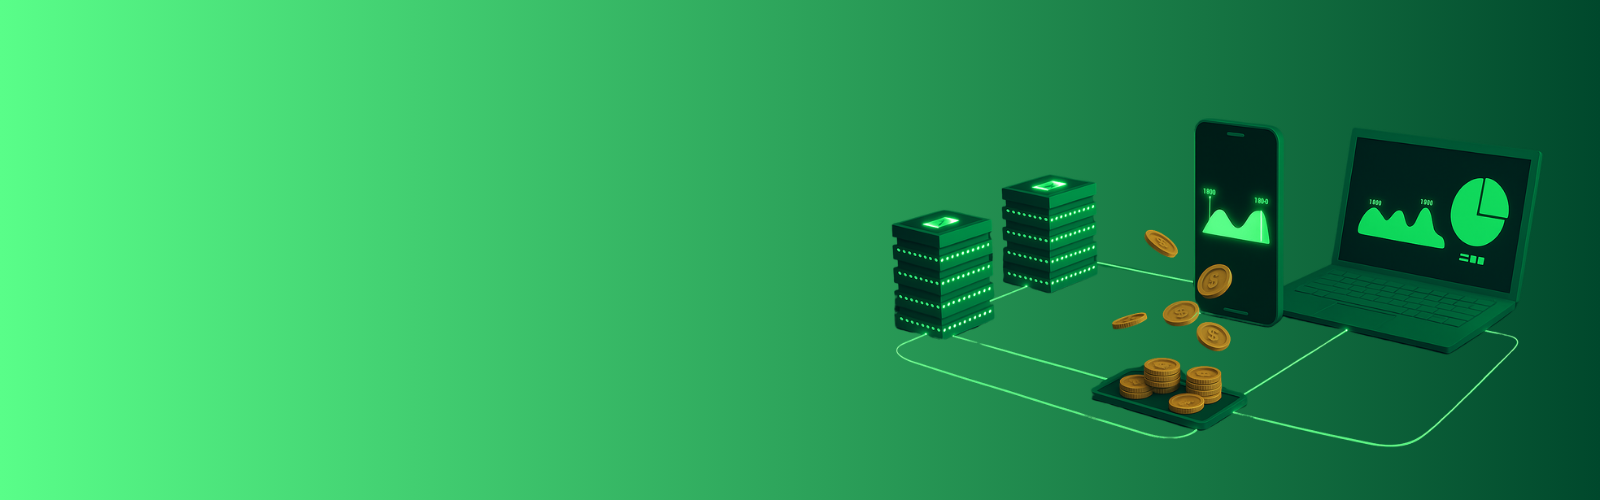
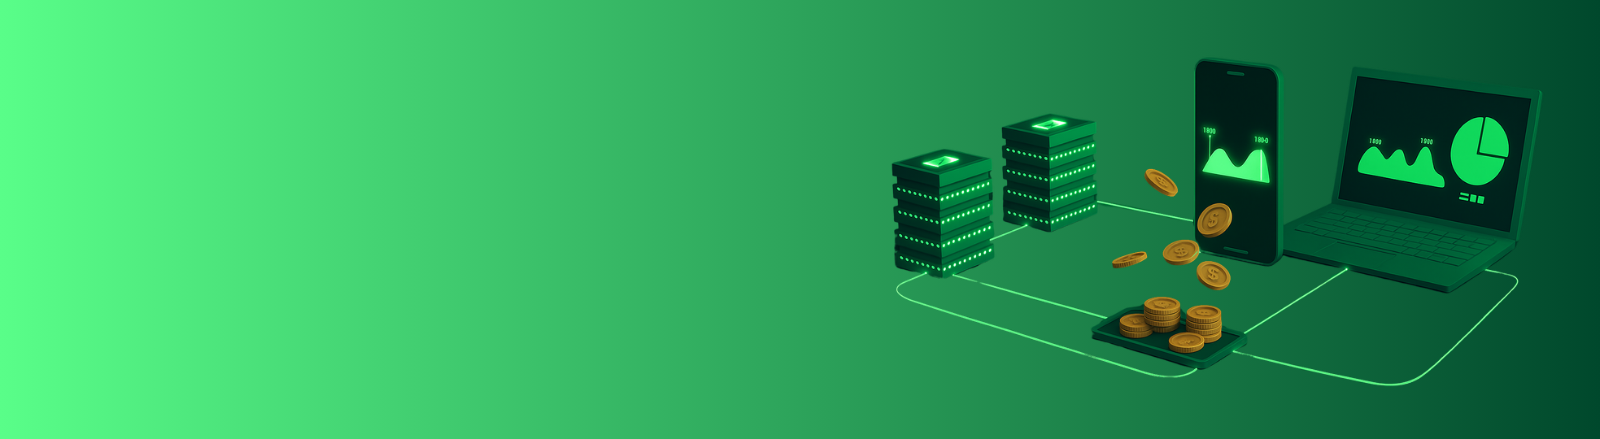
first commit

Changed region(s): [[0.5312, 0.1185, 0.9688, 0.918], [0.9062, 0.7107, 0.9375, 0.7995], [0.9375, 0.6515, 0.9688, 0.6811]]

diff --git a/src/screens/StoryPage/NewsPage/NewsPage.tsx b/src/screens/StoryPage/NewsPage/NewsPage.tsx
@@ -7,17 +7,21 @@ import { Button } from "../../../components/ui/button";
 const articlesData = [
   {
     id: 1,
-    title: "Chargeup teams up for E3W financing",   
+    title: "Chargeup forms new partnerships for EV financing",   
     date: "June 5, 2023",
-    imageUrl: "/news1.jpg",  
-    description: "Chargeup partners with Credit Fair and Ascend Capital to provide ₹100 crore in E3W financing for underserved drivers...",
-      link : "https: auto.economictimes.indiatimes.com/news/commercial-vehicle/chargeup-collaborates-with-credit-fair-and-ascend-capital-for-e3w-financing-solutions/107880159"
+    imageUrl: "/news5.png",  
+    imageWidth: "20px",
+    imageHeight: "20px", 
+    description: "Chargeup, being an asset management and financial services platform, is creating impact by enabling quick financing...",
+      link : "https://www.financialexpress.com/auto/commercial-vehicles/chargeup-forms-new-partnerships-for-ev-financing/3860046/"
   },
   {
     id: 2,
     title: "Electric vehicles: Only commitment, and no real deal",
     date: "June 5, 2023",
     imageUrl: "/news2.jpg",
+    imageWidth: "280px",
+    imageHeight: "220px",
     description: "India's budget backs EVs but lacks clear plans or new subsidies...",
     link : "https: www.forbesindia.com/amp/article/news/electric-vehicles-only-commitment-and-no-real-deal/91199/1"
 },
@@ -26,6 +30,8 @@ const articlesData = [
     title: "Chargeup to onboard 25,000 drivers in 17 cities by 2025",
     date: "June 5, 2023",
     imageUrl: "/news3.jpg",
+    imageWidth: "280px",
+    imageHeight: "240px",
     description: "Chargeup to onboard 25,000 drivers and expand battery stations across 17 cities...",
     link : "https: energy.economictimes.indiatimes.com/news/power/chargeup-to-onboard-25000-drivers-across-17-indian-cities-by-2025/109556468"
   },
@@ -34,6 +40,8 @@ const articlesData = [
     title: "Chargeup finalist at Aegis Graham Bell Awards",
     date: "June 5, 2023",
     imageUrl: "/news4.jpg",
+    imageWidth: "280px",
+    imageHeight: "200px",
     description: "Chargeup honored as finalist in 14th Aegis Graham Bell Awards for innovation...",
     link : "https: www.linkedin.com/posts/aegis-graham-bell-award_congratulations-to-chargeup-finalist-under-activity-7298635481326465025-1xTl?utm_source=social_share_send&utm_medium=member_desktop_web&rcm=ACoAAA2bHUoBindJf1EnJhHgLL-nZm964iDkCvQ"
   },
@@ -44,25 +52,31 @@ const articlesData = [
     description:
       "Chargeup partners with Credit Fair and Ascend Capital to provide ₹100 crore in E3W financing for underserved drivers.",
     imageUrl: "/news4.jpg",
+    imageWidth: "280px",
+    imageHeight: "180px",
     link: "https://example.com/news/5"
   },
   {
     id: 6,
     date: "23 Jan, 2025",
-    title: "Chargeup teams up for E3W financing",
+    title: "Chargeup teams up with Mega Corp, Shivakari Finance to unlock Rs 50 Cr in EV financing",
     description:
-      "Chargeup partners with Credit Fair and Ascend Capital to provide ₹100 crore in E3W financing for underserved drivers.",
-    imageUrl: "/api/placeholder/326/360",
-    link: "https://example.com/news/6"
+      "The company aims to disburse the credit line to support the deployment of 4,000 commercial EVs over their next 12 months in the country.",
+    imageUrl: "/news6.png",
+    imageWidth: "280px",
+    imageHeight: "260px",
+    link: "https://yourstory.com/2025/05/chargeup-partners-mega-corp-shivakari-finance-50-crore-ev-financing"
   },
   {
     id: 7,
     date: "23 Jan, 2025",
-    title: "Chargeup teams up for E3W financing",
+    title: "Chargeup Joins Forces with Mega Corporation and Shivakari Finance to Unlock INR 50 Cr in EV Financing",
     description:
-      "Chargeup partners with Credit Fair and Ascend Capital to provide ₹100 crore in E3W financing for underserved drivers.",
-    imageUrl: "/api/placeholder/326/360",
-    link: "https://example.com/news/7"
+      "The collaboration aims to unlock a credit line of INR 50 crore and deploy 4,000 commercial EVs over the next year, primarily benefitting underserved last-mile drivers.",
+    imageUrl: "/news5.png",
+    imageWidth: "280px",
+    imageHeight: "200px",
+    link: "https://www.entrepreneur.com/en-in/news-and-trends/chargeup-joins-forces-with-mega-corporation-and-shivakari/492329"
   },
   {
     id: 8,
@@ -71,6 +85,8 @@ const articlesData = [
     description:
       "Chargeup partners with Credit Fair and Ascend Capital to provide ₹100 crore in E3W financing for underserved drivers.",
     imageUrl: "/api/placeholder/326/360",
+    imageWidth: "280px",
+    imageHeight: "220px",
     link: "https://example.com/news/8"
   }
 ];
@@ -106,16 +122,13 @@ export default function NewsPage() {
       <div className="grid grid-cols-1 md:grid-cols-2 gap-6 md:gap-8 lg:gap-10 w-full mb-12">
         {currentArticles.map((article) => (
           <div key={article.id} className="flex flex-col md:flex-row items-start md:items-center gap-4 md:gap-6 lg:gap-10">
-            <Card className="w-full md:w-[181px] lg:w-[280px]  h-[200px] md:h-[240px] lg:h-[300px]  bg-[#333333] rounded-3xl  lg:rounded-3xl xl:rounded-[26px] p-4 md:p-5 lg:p-6 xl:p-[26px] flex flex-col justify-end overflow-hidden relative">
-              <CardContent className="p-0">
+            <Card className="w-full md:w-[181px] lg:w-[280px] h-[200px] md:h-[240px] lg:h-[300px] bg-[#333333] rounded-3xl lg:rounded-3xl xl:rounded-[26px] p-0 flex flex-col justify-end overflow-hidden relative">
+              <CardContent className="p-0 w-full h-full">
                 <img 
                   src={article.imageUrl} 
                   alt={article.title}
-                  className="absolute inset-0 w-full h-full object-cover opacity-90"
+                  className="w-full h-full object-cover"
                 />
-                {/* <Badge className="relative z-10 bg-white text-[#1b4748] font-normal rounded-[5px] px-3 py-2">
-                  {article.date}
-                </Badge> */}
               </CardContent>
             </Card>
             
@@ -130,7 +143,7 @@ export default function NewsPage() {
                 </p>
               </div>
               
-              <a href={article.link} className="mt-2 md:mb-4 flex items-center gap-2 md:gap-4 lg:gap-[21px] no-underline">
+              <a href={article.link} className="mt-2 md:mb-4 flex items-center gap-2 md:gap-4 lg:gap-[21px] no-underline " target = "_blank" rel="noopener noreferrer">
 
                 <span className=" font-semibold text-[#07584D] text-base md:text-lg lg:text-xl leading-6 whitespace-nowrap ">
                   Read Now

diff --git a/src/screens/Homepage/sections/HeroSections/HeroSections.tsx b/src/screens/Homepage/sections/HeroSections/HeroSections.tsx
@@ -22,16 +22,16 @@ export default function HeroSection() {
   }, []);
 
   return (
-    <section className="min-h-screen relative overflow-hidden">
+    <section className="h-[750px] relative overflow-hidden">
       {/* Background Image with Overlay */}
       <div 
-        className="absolute inset-0 bg-cover bg-center bg-no-repeat"
+        className="absolute inset-0 bg-cover bg-left bg-no-repeat object-fill w-[100%] h-[100%] z-0"
         style={{
-          backgroundImage: `url('/homeImage.png')`,
+          backgroundImage: `url('/hero.png')`,
         }}
       />
       {/* Dark overlay for better text readability */}
-      <div className="absolute inset-0 bg-gradient-to-br from-black/70 via-black/60 to-black/80" />
+      <div className="absolute inset-0 " />
 
       <div className="container mx-auto px-6 lg:px-8 py-20 relative z-10">
         <div className="grid lg:grid-cols-2 gap-16 items-center min-h-[85vh]">
@@ -39,27 +39,27 @@ export default function HeroSection() {
           <div className={`space-y-8 transition-all duration-1000 ${isVisible ? 'opacity-100 translate-x-0' : 'opacity-0 -translate-x-10'}`}>
             <div className="space-y-6">
               <div className="inline-flex items-center px-4 py-2 bg-gradient-to-r from-[#0F9547]/20 to-[#3B82F6]/20 border border-[#0F9547]/30 rounded-full backdrop-blur-sm">
-                <div className="w-2 h-2 bg-[#0F9547] rounded-full animate-pulse mr-3"></div>
-                <span className="text-sm md:text-base font-medium text-[#0F9547]">A single stop solution</span>
+                <div className="w-2 h-2 bg-[#fff] rounded-full animate-pulse mr-3"></div>
+                <span className="text-sm md:text-base font-medium text-[#fff]">A single stop solution</span>
               </div>
               
               <h1 className="text-5xl md:text-6xl lg:text-7xl font-bold text-white leading-tight">
                 <span className="bg-gradient-to-r from-white to-gray-300 bg-clip-text text-transparent">
-                  Driver First  
+                  India's first EV Driver Platform  
                 </span>
-                <br />
+                {/* <br />
                 <span className="bg-gradient-to-r from-[#0C7D49] via-[#07584D] to-[#033F4F] bg-clip-text text-transparent">
                   Fi Ne Tech
                 </span>
                 <br />
                 <span className="bg-gradient-to-r from-white to-gray-300 bg-clip-text text-transparent">
                   Platform
-                </span>
+                </span> */}
               </h1>
               
-              <p className="text-xl md:text-2xl text-gray-400 leading-relaxed max-w-2xl">
+              <p className="text-xl md:text-2xl text-gray-50 leading-relaxed max-w-2xl">
                 Offering     
-                <span className="text-[#0F9547] font-semibold"> Financial services and Asset management </span>, 
+                <span className="text-[#fff] font-semibold"> Financial services and Asset management </span>, 
                 Integrated with NBFCs, OEMs & dealers
               </p>
             </div>

diff --git a/src/screens/ChargetechPage/sections/SolutionHome/SolutionHome.tsx b/src/screens/ChargetechPage/sections/SolutionHome/SolutionHome.tsx
@@ -7,29 +7,30 @@ export const SolutionHome = (): JSX.Element => {
   const [isModalOpen, setIsModalOpen] = useState(false);
   
   return (
-    <section className="flex flex-col items-start justify-center p-2 lg:px-4">
+    <section className="flex flex-col items-start justify-center p-1 md:p-6 lg:px-4 ">
       <Card className="w-full rounded-lg md:rounded-xl lg:rounded-2xl border-none overflow-hidden relative bg-cover bg-center bg-no-repeat"
             style={{
-              backgroundImage: `linear-gradient(rgba(0, 0, 0, 0.6), rgba(0, 0, 0, 0.6)), url('/sol_home.png')`
+              backgroundImage: `linear-gradient(rgba(0, 0, 0, 0.2), rgba(0.2, 0, 0, 0.2)), url('/sol_home.png')`
             }}>
         
         <CardContent className="flex flex-col items-start p-10 sm:p-8 md:p-12 lg:py-16 lg:px-24">
           <div className="flex flex-col items-start gap-6 md:gap-8 w-full">
             <div className="flex flex-col items-start gap-1">
               <p className="md:w-2/3 text-sm lg:px-[24px] sm:text-base md:text-lg font-normal text-[#fcfcfc] leading-relaxed font-['Plus_Jakarta_Sans',Helvetica]">
-                Enabling easy EV ownership via
+                A single stop solution
+
               </p>
-              <h1 className="md:w-full text-3xl lg:px-[24px] md:text-4xl xl:text-[44px] font-semibold text-white tracking-tight font-['Plus_Jakarta_Sans',Helvetica] mb-4">
+              {/* <h1 className="md:w-full text-3xl lg:px-[24px] md:text-4xl xl:text-[44px] font-semibold text-white tracking-tight font-['Plus_Jakarta_Sans',Helvetica] mb-4">
                 Fi Ne Tech Platform 
-              </h1>
-              <p className="md:w-2/3 text-sm lg:px-[24px] sm:text-base md:text-lg font-normal text-[#ffffff] leading-relaxed mt-3 md:mt-6">
-                Offering financial services and asset management integrated with NBFCs, OEMs and dealers, to offer a single stop solution.
+              </h1> */}
+              <p className="w-2/3 md:w-2/3 text-sm lg:px-[24px] sm:text-base md:text-2xl font-normal text-[#ffffff] leading-relaxed mt-3 md:mt-6">
+                Offering Financial services and Asset management Integrated with NBFCs, OEMs & dealers.
               </p>
             </div>
             <div className="flex items-start pt-2 md:pt-4 lg:px-[24px]">
               <Button 
                 onClick={() => setIsModalOpen(true)}
-                className="bg-[#07584D] px-4 py-2 text-[#ffffff] border border-[#fff] rounded-md md:rounded-lg text-base md:text-base lg:text-lg font-semibold font-['Plus_Jakarta_Sans',Helvetica] shadow-sm hover:bg-[#033F4F]/90"
+                className="bg-[#07584D] px-4 py-2 text-[#ffffff]  rounded-md md:rounded-lg text-base md:text-base lg:text-lg font-semibold font-['Plus_Jakarta_Sans',Helvetica] shadow-sm hover:bg-[#033F4F]/90"
               >
                 Partner with us
               </Button>

diff --git a/src/screens/PeoplePage/Career/Career.tsx b/src/screens/PeoplePage/Career/Career.tsx
@@ -6,9 +6,9 @@ const DepartmentItem = ({ title, isActive, onClick, jobRoles, selectedRole }) =>
     <div 
       onClick={onClick}
       className={`
-        w-full p-3 rounded-full cursor-pointer transition-all duration-300 
+        w-full p-3 pl-5 rounded-full cursor-pointer transition-all duration-300 
         ${isActive 
-          ? 'bg-orange-500 text-white' 
+          ? 'bg-[#07584D] text-white' 
           : 'bg-white border border-gray-300 text-gray-800 hover:bg-gray-100'
         }
       `}
@@ -27,7 +27,7 @@ const DepartmentItem = ({ title, isActive, onClick, jobRoles, selectedRole }) =>
             p-3 ml-2 border-l-2 cursor-pointer rounded-r-lg mb-3 
             transition-all duration-200
             ${selectedRole === role.id 
-              ? 'border-orange-500 bg-orange-50 text-gray-800' 
+              ? 'border-[#07584D] bg-[#07584D]  text-gray-800 bg-gray-100' 
               : 'border-gray-200 hover:bg-gray-50'}
           `}
           onClick={() => role.onClick(role.id)}
@@ -46,7 +46,7 @@ const JobDetails = ({ title, location, requirements, responsibilities, skills, g
         <h2 className="text-2xl font-bold text-gray-800 mb-2">{title}</h2>
         <div className="text-gray-600">{location}</div>
       </div>
-      <button className="mt-4 md:mt-0 bg-[#0A704A] hover:bg-yellow-500 text-white font-medium py-2 px-6 rounded text-[18px]">
+      <button className="mt-4 md:mt-0 bg-[#07584D] hover:bg-[#023350] text-white font-medium py-2 px-6 rounded text-[18px]">
         Apply
       </button>
     </div>

diff --git a/src/screens/Homepage/sections/Video/Video.tsx b/src/screens/Homepage/sections/Video/Video.tsx
@@ -30,9 +30,16 @@
       const videoId = extractYouTubeId(url);
       return videoId ? `https://www.youtube.com/embed/${videoId}?autoplay=1&rel=0` : null;
     };
+    
 
     // Video data array
     const videos = [
+      {
+        id: 6,
+        title: "From financing e-rickshaw to i-rickshaws | chargeup x Shivakari",
+        description: "The inspiring story of Pratibha Das",
+        url: "https://youtu.be/a2QQYXzs2jQ"
+      },
       {
         id: 1,
         title: "How E-Rickshaw Drivers Drove a Greener Tomorrow",
@@ -46,6 +53,12 @@
         url: "https://youtu.be/vOfeJ8P95fw?si=_E7oKYEwtltgbWlu"
       },
       {
+        id: 5,
+        title: "Making EV lending hassle free and scalable with charegup platform",
+        description: "The inspiring story of Pratibha Das",
+        url: "https://youtu.be/OrrJxqMYgIQ"
+      },
+      {
         id: 3,
         title: "Azaadi Ki Awaaz: Chargeup Ka Vishwas #independenceday #78thindependenceday",
         description: "Celebrating freedom and independence with Chargeup",
@@ -56,7 +69,9 @@
         title: "Pratibha Das - Ek Atmanirbhar Mahila E-rickshaw chalak ki Kahani | Badlav Ki Lehar",
         description: "The inspiring story of Pratibha Das",
         url: "https://youtu.be/uxwZTdbwp2s?si=AZfA3Q8ALsF71CpA"
-      }
+      },
+      
+      
     ];
 
     // Calculate total pages based on slides per view

diff --git a/src/screens/StoryPage/ChargeupJourney/ChargeupJourney.tsx b/src/screens/StoryPage/ChargeupJourney/ChargeupJourney.tsx
@@ -18,7 +18,7 @@ export default function ChargeUpTimeline() {
     },
     {
       year: "2021", 
-      title: "1,000 active drivers reached",
+      title: "1,000 active drivers ",
       description: "Early traction proved strong product-market fit",
       highlight: "1,000",
       icon: Users,
@@ -28,7 +28,7 @@ export default function ChargeUpTimeline() {
     },
     {
       year: "2022",
-      title: "$2.5M Pre-Series A funding raised",
+      title: "$2.5M funding raised",
       description: "Continued backing underscored investor confidence",
       highlight: "$2.5M",
       icon: DollarSign,
@@ -48,7 +48,7 @@ export default function ChargeUpTimeline() {
     },
     {
       year: "2024",
-      title: "Profitable at EBITDA level",
+      title: "Profitable  EBITDA level",
       description: "Scaled sustainably while deepening market presence",
       highlight: "7,000",
       icon: TrendingUp,

diff --git a/src/screens/PartnerPage/sections/OurPartners/OurPartners.tsx b/src/screens/PartnerPage/sections/OurPartners/OurPartners.tsx
@@ -96,7 +96,7 @@ export const OurPartners = (): JSX.Element => {
                     onClick={() => setActiveCategory(category.name)}
                     className={`h-14 px-8 py-3 rounded-full text-lg font-medium ${
                       activeCategory === category.name
-                        ? "bg-[#f48900] text-white hover:bg-[#e07d00]"
+                        ? "bg-[#07584D] text-white hover:bg-[#07584D]"
                         : "bg-transparent text-[#010101] border-2 border-[#1b4748] hover:bg-gray-100"
                     }`}
                   >

diff --git a/src/screens/StoryPage/VisionMission/VisionMission.tsx b/src/screens/StoryPage/VisionMission/VisionMission.tsx
@@ -12,7 +12,7 @@ export default function VisionMission() {
         title: "Empowering Tomorrow's Drivers",
         description:
           "To become the largest driver platform, empowering millions of last-mile drivers with easy EV ownership and higher earnings making them financially independent.",
-        image: "/vission.png",
+        image: "/vission2.png",
         alt: "Vision - Empowering drivers with sustainable transportation",
         gradient: "from-[#0F9547] to-[#0C7D49]",
         accentColor: "#0F9547"

diff --git a/src/screens/PeoplePage/Culture/Culture.tsx b/src/screens/PeoplePage/Culture/Culture.tsx
@@ -16,7 +16,7 @@ export const CultureAtChargeUp = (): JSX.Element => {
     { 
       id: 3, 
       className: "w-full h-[200px] object-cover rounded-lg",
-      src: "/culture1.jpg",
+      src: "/culture1.jpeg",
       alt: "Team meeting"
     },
     { 
